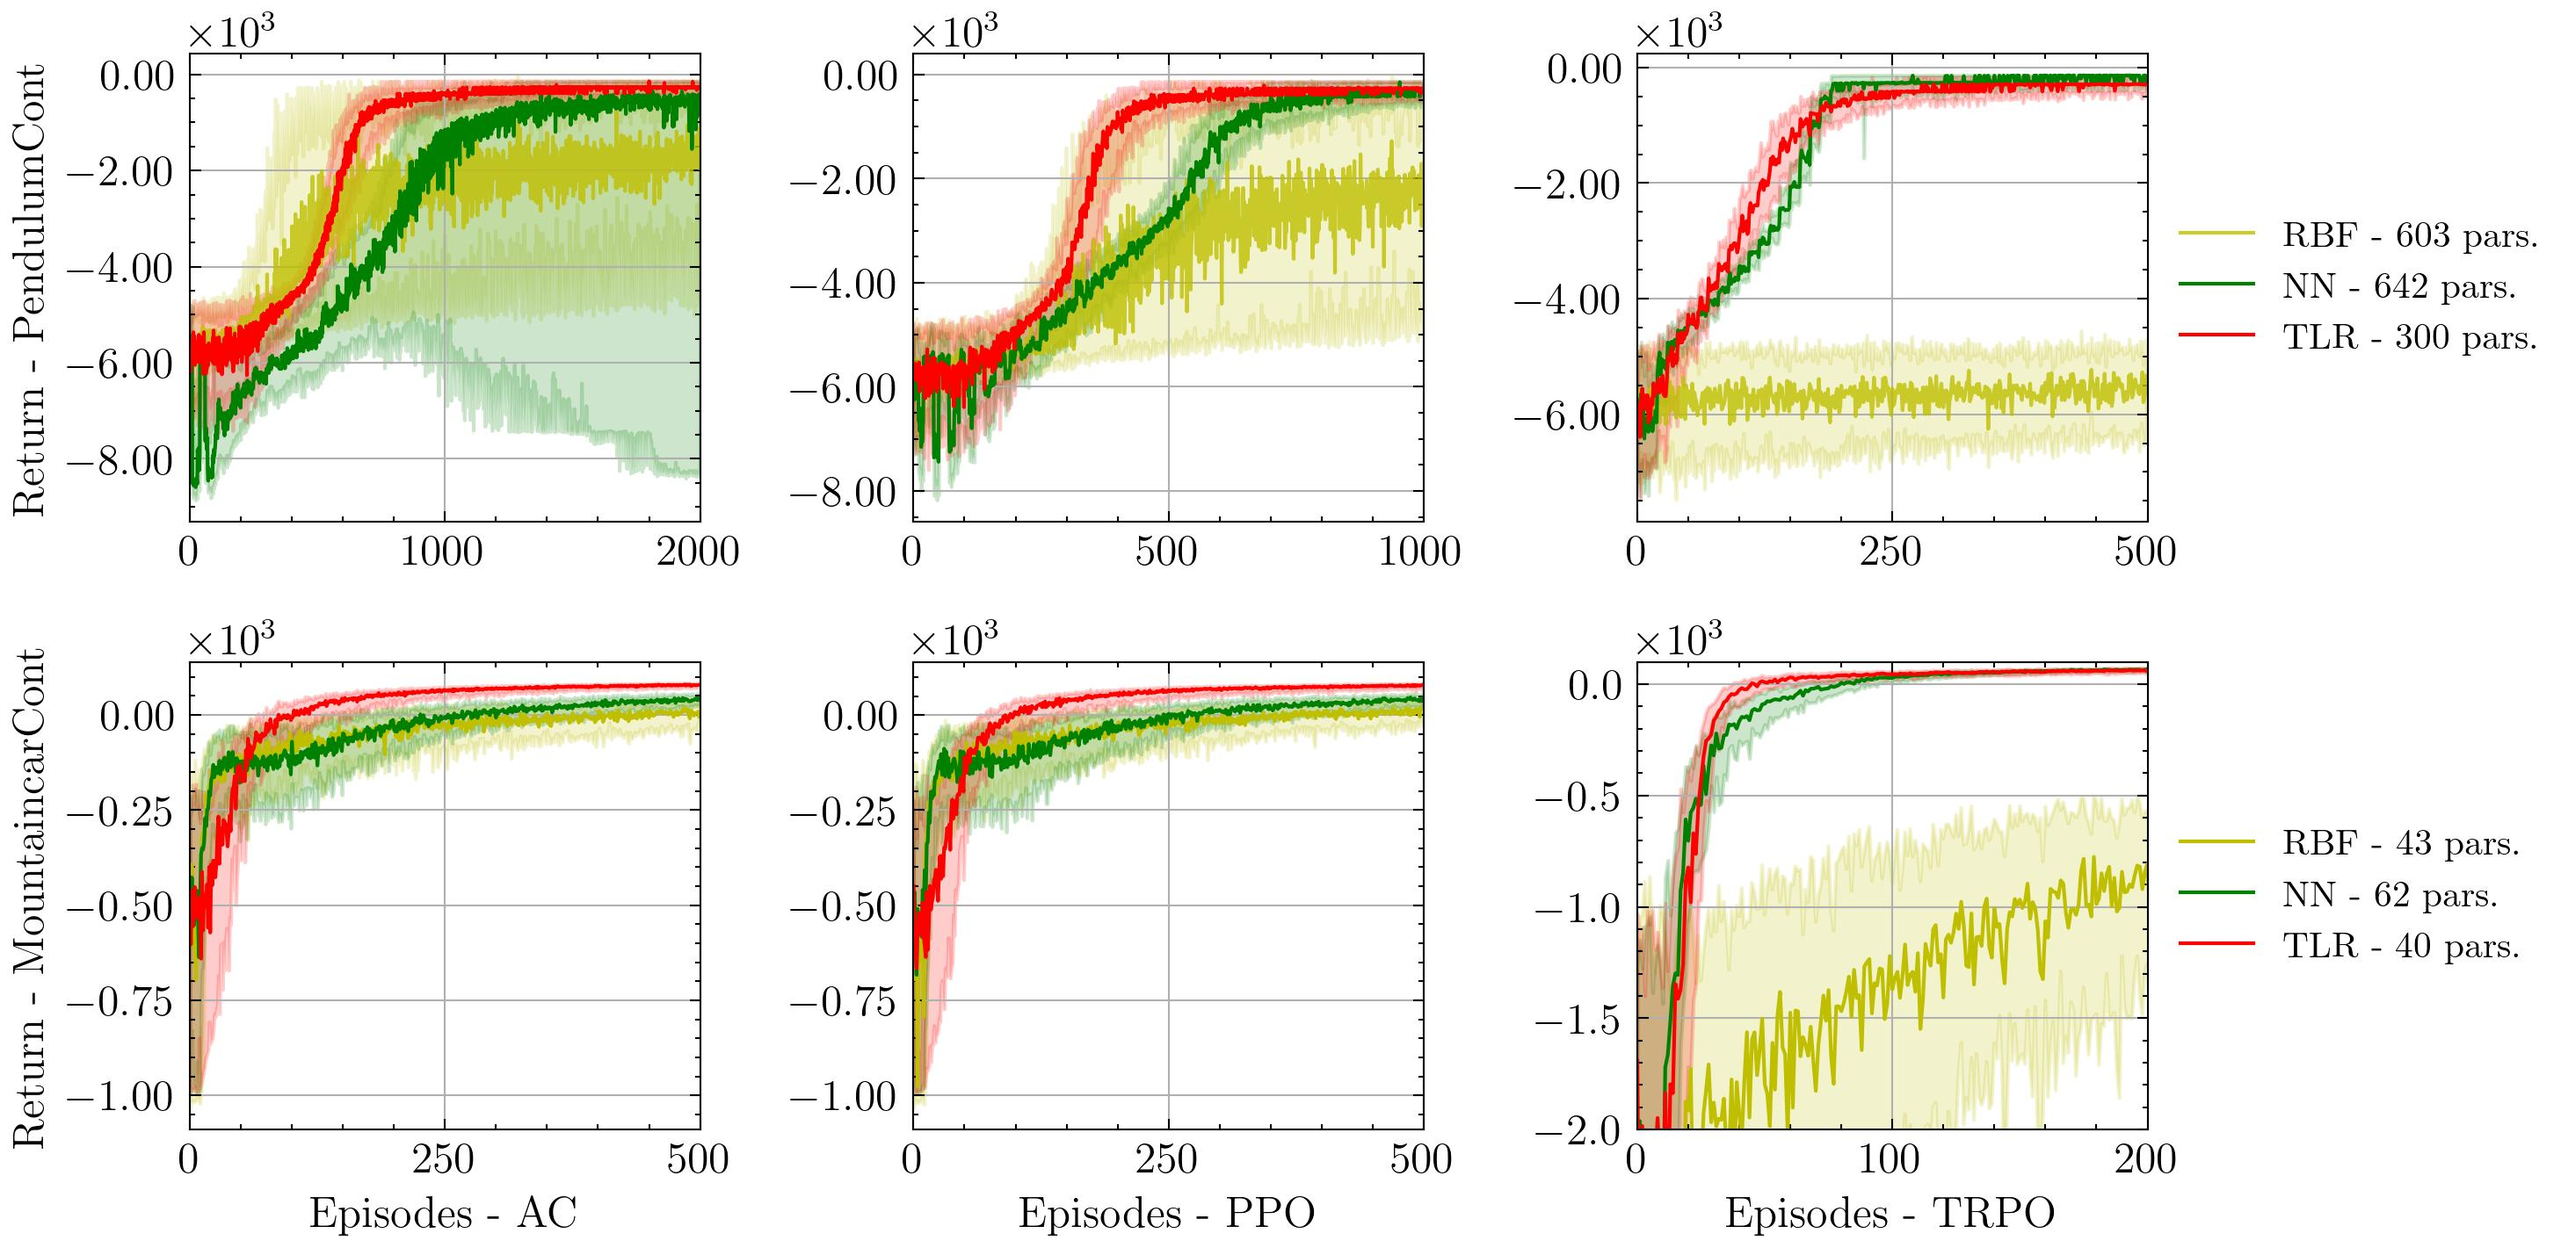
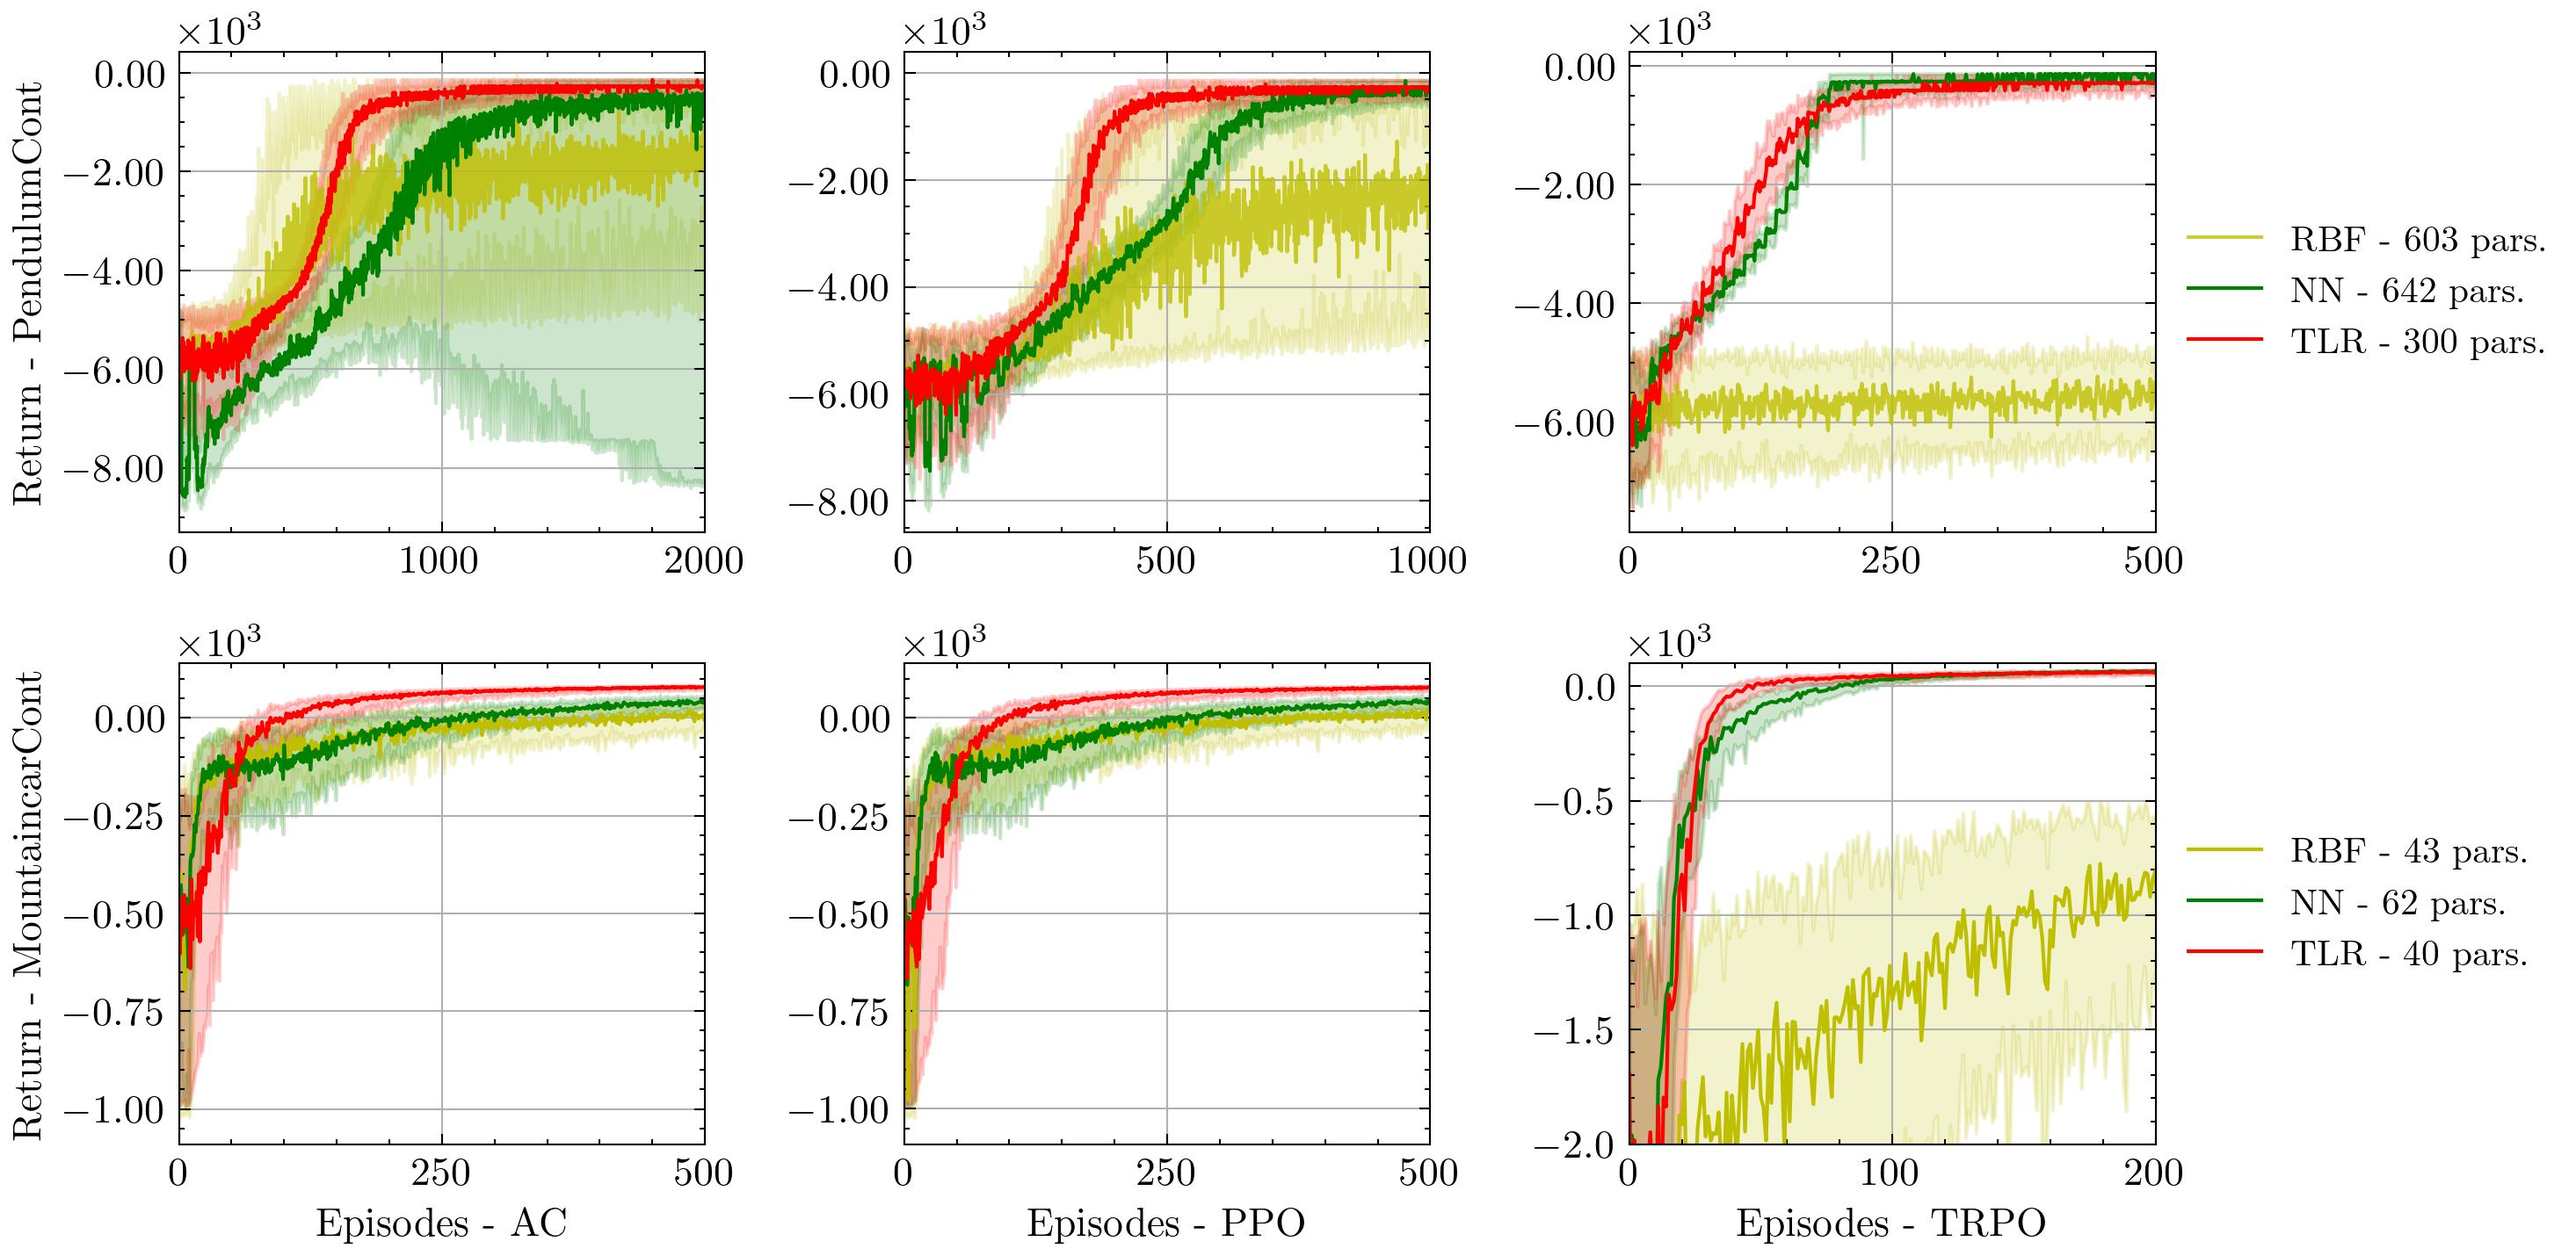
adjusts in plots

diff --git a/src/plots/wireless.py b/src/plots/wireless.py
@@ -12,31 +12,31 @@ def plot_wireless():
     wireless_nn_la = np.load("results/wireless_nn_big.npy")
 
     with plt.style.context(["science"], ["ieee"]):
-        matplotlib.rcParams.update({"font.size": 16})
+        matplotlib.rcParams.update({"font.size": 18})
         fig = plt.figure(figsize=(8, 5))  # Adjust figsize as needed
 
         med = np.median(wireless_rbf, axis=0)
         p25 = np.percentile(wireless_rbf, q=25, axis=0)
         p75 = np.percentile(wireless_rbf, q=75, axis=0)
-        plt.plot(med, label="RBF-PPO - 1,202 params.", color="y")
+        plt.plot(med, label="RBF - 1,2K pars.", color="y")
         plt.fill_between(range(p25.shape[0]), p25, p75, alpha=0.2, color="y")
 
         med = np.median(wireless_nn, axis=0)
         p25 = np.percentile(wireless_nn, q=25, axis=0)
         p75 = np.percentile(wireless_nn, q=75, axis=0)
-        plt.plot(med, label="NN-PPO - 1,093 params.", color="g")
+        plt.plot(med, label="NN - 1,1K pars.", color="g")
         plt.fill_between(range(p25.shape[0]), p25, p75, alpha=0.2, color="g")
 
         # med = np.median(wireless_nn_la, axis=0)
         # p25 = np.percentile(wireless_nn_la, q=25, axis=0)
         # p75 = np.percentile(wireless_nn_la, q=75, axis=0)
-        # plt.plot(med, label='NN-PPO - 2,181 params.', color='g')
+        # plt.plot(med, label='NN - 2,181 pars.', color='g')
         # plt.fill_between(range(p25.shape[0]), p25, p75, alpha=.2, color='g')
 
         med = np.median(wireless_ten, axis=0)
         p25 = np.percentile(wireless_ten, q=25, axis=0)
         p75 = np.percentile(wireless_ten, q=75, axis=0)
-        plt.plot(med, label="TLR-PPO - 902 params.", color="r")
+        plt.plot(med, label="TLR - 902 pars.", color="r")
         plt.fill_between(range(p25.shape[0]), p25, p75, alpha=0.2, color="r")
 
         plt.gca().yaxis.set_major_formatter(OOMFormatter(3, "%1.2f"))
@@ -47,7 +47,7 @@ def plot_wireless():
         plt.xlabel("Episodes")
         plt.grid()
 
-        plt.legend()
+        plt.legend(loc="center left", bbox_to_anchor=(1, 0.5), fontsize=14)
 
         plt.tight_layout()
         fig.savefig("figures/fig_4.jpg", dpi=300)

diff --git a/src/plots/control.py b/src/plots/control.py
@@ -47,7 +47,7 @@ def plot_control():
     mount_disc_trpo_rbf = np.load("results/mountaincar_discrete_trpo_rbf.npy")
 
     with plt.style.context(["science"], ["ieee"]):
-        matplotlib.rcParams.update({"font.size": 12})
+        matplotlib.rcParams.update({"font.size": 11})
         fig, axs = plt.subplots(2, 3, figsize=(10, 5))  # Adjust figsize as needed
 
         # Pendulum Continuous
@@ -219,7 +219,7 @@ def plot_control():
         fig.savefig("figures/fig_2.jpg", dpi=300)
 
     with plt.style.context(["science"], ["ieee"]):
-        matplotlib.rcParams.update({"font.size": 12})
+        matplotlib.rcParams.update({"font.size": 11})
         fig, axs = plt.subplots(2, 3, figsize=(10, 5))  # Adjust figsize as needed
 
         # Pendulum Discrete
